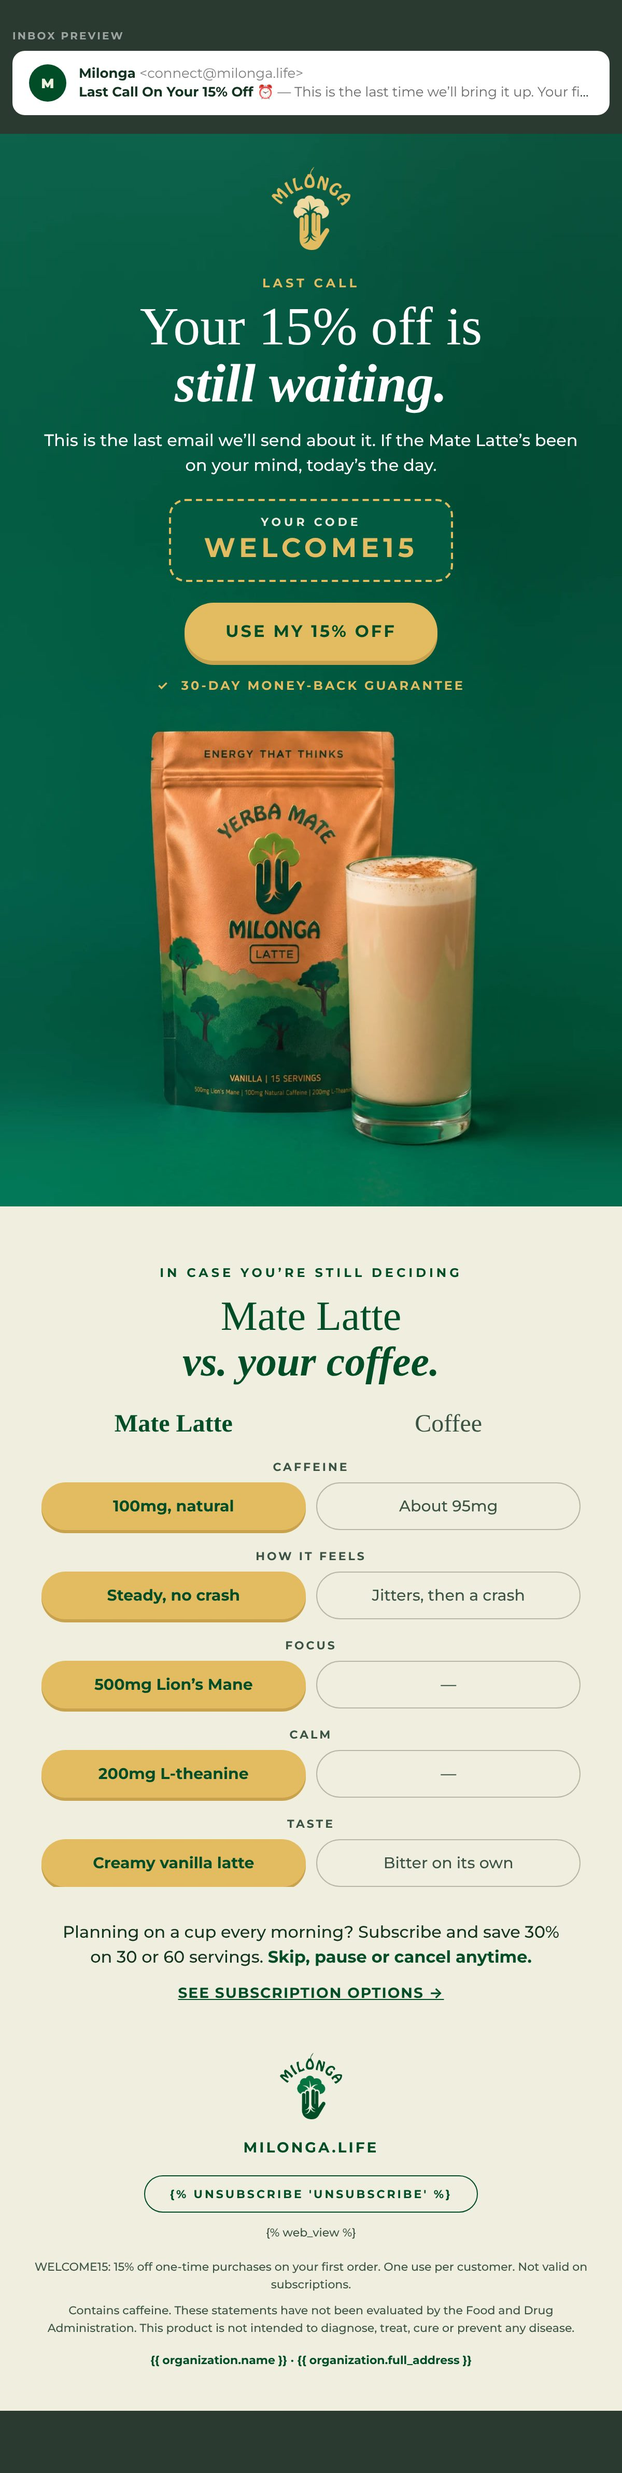
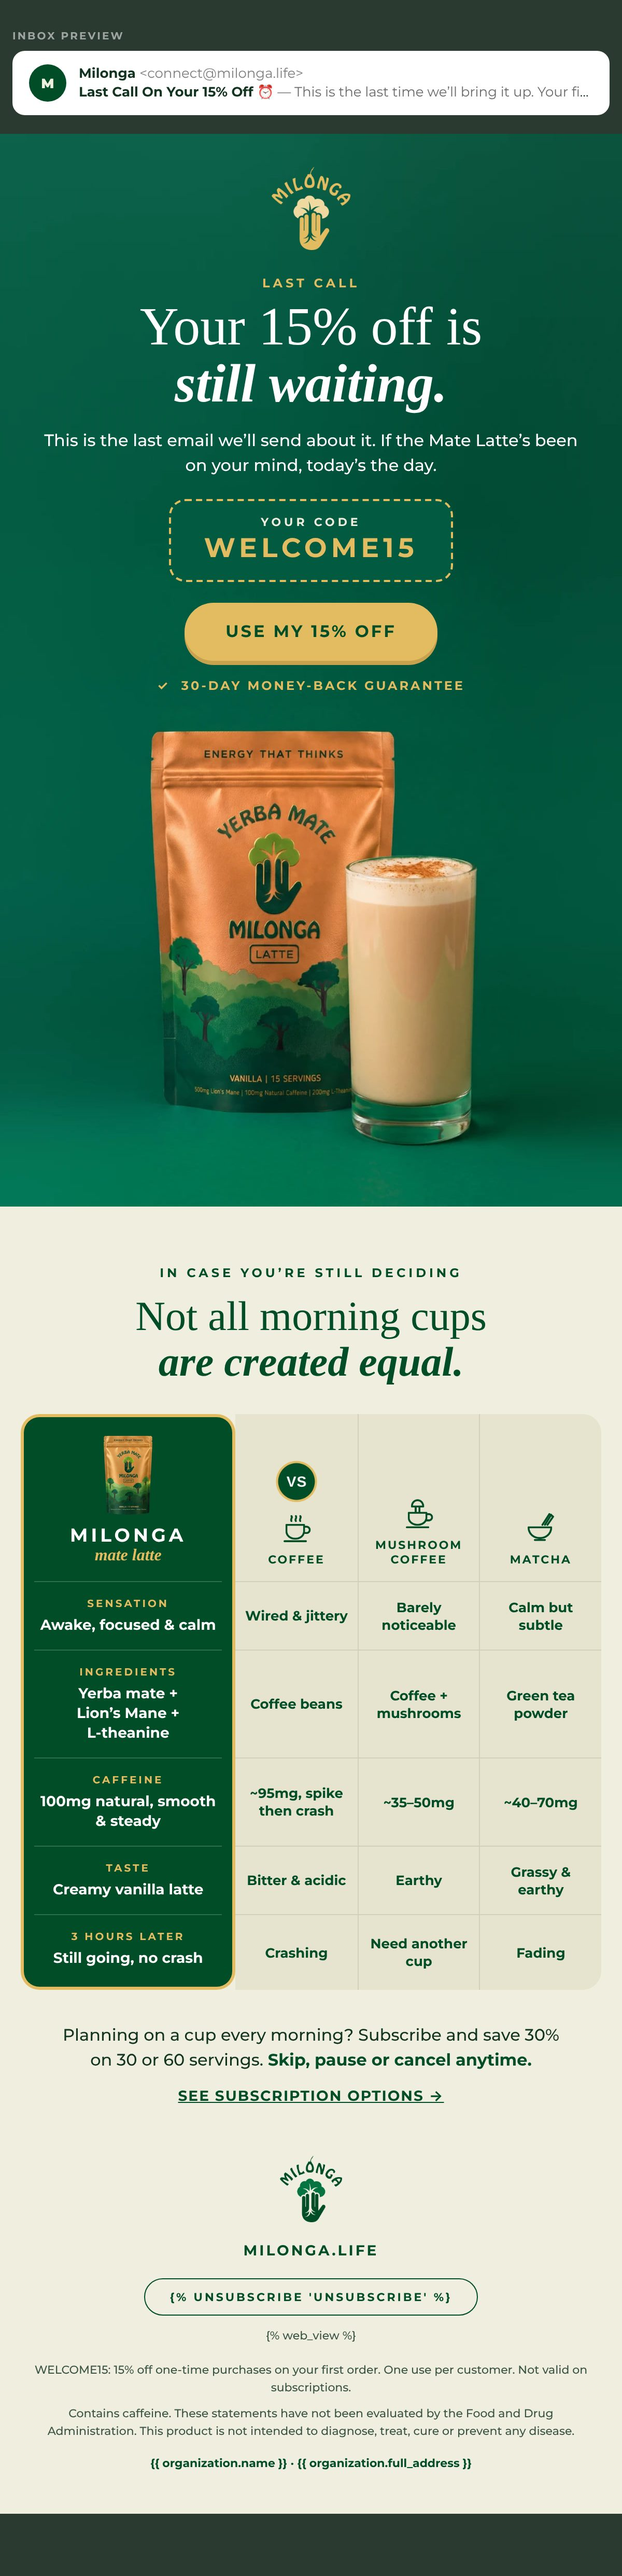
Welcome flow E3: comparison images on Klaviyo's CDN, README, renders
Claude-Session: https://claude.ai/code/session_01NhEtXPnfeCJfN73SqBkUZ5

Changed region(s): [[0.0, 0.0, 1.0, 0.9688], [0.8633, 0.1562, 0.925, 0.1875]]

diff --git a/email-ds/exports/klaviyo/welcome-e3/welcome-e3.html b/email-ds/exports/klaviyo/welcome-e3/welcome-e3.html
@@ -22,8 +22,15 @@
     .code { font-size:20px !important; letter-spacing:2px !important; }
     .code-tag { padding:12px 20px 14px !important; }
     .btn { padding:18px 26px !important; font-size:15px !important; letter-spacing:1.2px !important; }
-    .pad-cmp { padding-left:16px !important; padding-right:16px !important; }
-    .cmp { font-size:14px !important; line-height:18px !important; padding-left:8px !important; padding-right:8px !important; }
+    .pad-cmp { padding-left:10px !important; padding-right:10px !important; }
+    .cmp-mil { padding-left:6px !important; padding-right:6px !important; }
+    .cmp-ours { font-size:12px !important; line-height:16px !important; }
+    .cmp-label { font-size:9px !important; letter-spacing:1.4px !important; }
+    .cmp-cell { font-size:11px !important; line-height:14px !important; padding:10px 3px !important; }
+    .cmp-name { font-size:9px !important; letter-spacing:.8px !important; line-height:12px !important; }
+    .cmp-brand { font-size:15px !important; letter-spacing:2px !important; }
+    .cmp-vs { width:32px !important; height:32px !important; }
+    .cmp-vs-gap { height:38px !important; line-height:38px !important; }
   }
   @media (prefers-color-scheme: dark) {
     .bg-hero { background-color:#025A41 !important; }
@@ -56,48 +63,90 @@
 <!--[if gte mso 9]></v:textbox></v:rect><![endif]-->
 </td></tr>
 
-<!-- ── 2 · MATE LATTE VS. COFFEE (beige) ─────────────────────────── -->
+<!-- ── 2 · MATE LATTE VS. THE ALTERNATIVES (beige) ─────────────────── -->
 <tr><td class="pad bg-page" align="center" bgcolor="#F0EFDF" style="background-color:#F0EFDF;padding:56px 40px 0;font-family:'Montserrat','Helvetica Neue',Helvetica,Arial,sans-serif;">
 <div style="font-size:12px;line-height:16px;font-weight:700;letter-spacing:3px;text-transform:uppercase;color:#004D27;">In case you&rsquo;re still deciding</div>
-<div class="h-sec" style="padding-top:12px;font-family:'Times New Roman',Times,Georgia,serif;font-size:40px;line-height:44px;font-weight:400;color:#004D27;">Mate Latte</div>
-<div class="h-sec" style="font-family:'Times New Roman',Times,Georgia,serif;font-size:40px;line-height:44px;font-weight:700;font-style:italic;color:#004D27;">vs. your coffee.</div>
+<div class="h-sec" style="padding-top:12px;font-family:'Times New Roman',Times,Georgia,serif;font-size:40px;line-height:44px;font-weight:400;color:#004D27;">Not all morning cups</div>
+<div class="h-sec" style="font-family:'Times New Roman',Times,Georgia,serif;font-size:40px;line-height:44px;font-weight:700;font-style:italic;color:#004D27;">are created equal.</div>
 </td></tr>
-<tr><td class="pad-cmp bg-page" bgcolor="#F0EFDF" style="background-color:#F0EFDF;padding:24px 40px 0;">
-<table role="presentation" width="100%" cellpadding="0" cellspacing="0" border="0" style="border-collapse:separate;">
+<tr><td class="pad-cmp bg-page" bgcolor="#F0EFDF" style="background-color:#F0EFDF;padding:28px 20px 0;">
+<table role="presentation" width="100%" cellpadding="0" cellspacing="0" border="0" style="border-collapse:separate;border-spacing:0;">
 <tr>
-<td width="49%" align="center" style="width:49%;padding-bottom:2px;font-family:'Times New Roman',Times,Georgia,serif;font-size:24px;line-height:28px;font-weight:700;color:#004D27;">Mate Latte</td>
-<td width="2%" style="width:2%;font-size:0;">&nbsp;</td>
-<td width="49%" align="center" style="width:49%;padding-bottom:2px;font-family:'Times New Roman',Times,Georgia,serif;font-size:24px;line-height:28px;font-weight:400;color:#3B5344;">Coffee</td>
+<td class="cmp-mil" width="37%" align="center" valign="bottom" bgcolor="#004D27" style="width:37%;background-color:#004D27;border:3px solid #E3BC62;border-bottom:0;border-radius:18px 18px 0 0;padding:18px 8px 14px;font-family:'Montserrat','Helvetica Neue',Helvetica,Arial,sans-serif;">
+<img class="cmp-pouch" src="https://cdn.klaviyomail.com/company/TwvSnK/images/42ccdf16-bbbc-4246-ab82-8d5573d6f6f5.png" width="47" height="76" alt="Milonga Mate Latte pouch" style="display:block;margin:0 auto;width:47px;height:76px;border:0;">
+<div class="cmp-brand" style="padding-top:10px;font-size:18px;line-height:20px;font-weight:700;letter-spacing:3px;color:#FFFFFF;">MILONGA</div>
+<div style="font-family:'Times New Roman',Times,Georgia,serif;font-size:16px;line-height:20px;font-weight:700;font-style:italic;color:#E3BC62;">mate latte</div>
+</td>
+<td class="cmp-r" width="21%" align="center" valign="bottom" bgcolor="#E6E4CF" style="width:21%;background-color:#E6E4CF;padding:18px 4px 14px;font-family:'Montserrat','Helvetica Neue',Helvetica,Arial,sans-serif;">
+<img class="cmp-vs" src="https://cdn.klaviyomail.com/company/TwvSnK/images/f6eca6ee-af15-4ad7-9f8d-ceb0d4be7327.png" width="40" height="40" alt="versus" style="display:block;margin:0 auto 6px;width:40px;height:40px;border:0;">
+<img src="https://cdn.klaviyomail.com/company/TwvSnK/images/31afe900-12dd-4189-9834-e73964cb59d7.png" width="34" height="34" alt="" role="presentation" style="display:block;margin:0 auto;width:34px;height:34px;border:0;">
+<div class="cmp-name" style="padding-top:8px;font-size:11px;line-height:14px;font-weight:700;letter-spacing:1.5px;text-transform:uppercase;color:#004D27;">Coffee</div>
+</td>
+<td class="cmp-r" width="21%" align="center" valign="bottom" bgcolor="#E6E4CF" style="width:21%;background-color:#E6E4CF;border-left:1px solid #D2D0B8;padding:18px 4px 14px;font-family:'Montserrat','Helvetica Neue',Helvetica,Arial,sans-serif;">
+<div class="cmp-vs-gap" style="height:46px;line-height:46px;font-size:0;">&nbsp;</div>
+<img src="https://cdn.klaviyomail.com/company/TwvSnK/images/360d5802-9142-4375-a4b2-452fba70c028.png" width="34" height="34" alt="" role="presentation" style="display:block;margin:0 auto;width:34px;height:34px;border:0;">
+<div class="cmp-name" style="padding-top:8px;font-size:11px;line-height:14px;font-weight:700;letter-spacing:1.5px;text-transform:uppercase;color:#004D27;">Mushroom coffee</div>
+</td>
+<td class="cmp-r" width="21%" align="center" valign="bottom" bgcolor="#E6E4CF" style="width:21%;background-color:#E6E4CF;border-left:1px solid #D2D0B8;border-radius:0 18px 0 0;padding:18px 4px 14px;font-family:'Montserrat','Helvetica Neue',Helvetica,Arial,sans-serif;">
+<div class="cmp-vs-gap" style="height:46px;line-height:46px;font-size:0;">&nbsp;</div>
+<img src="https://cdn.klaviyomail.com/company/TwvSnK/images/e181ee6e-beb9-4f5c-92e1-62128d59581f.png" width="34" height="34" alt="" role="presentation" style="display:block;margin:0 auto;width:34px;height:34px;border:0;">
+<div class="cmp-name" style="padding-top:8px;font-size:11px;line-height:14px;font-weight:700;letter-spacing:1.5px;text-transform:uppercase;color:#004D27;">Matcha</div>
+</td>
 </tr>
-<tr><td colspan="3" align="center" style="padding:18px 0 8px;font-family:'Montserrat','Helvetica Neue',Helvetica,Arial,sans-serif;font-size:11px;line-height:14px;font-weight:700;letter-spacing:2px;text-transform:uppercase;color:#3B5344;">Caffeine</td></tr>
 <tr>
-<td class="cmp" width="49%" align="center" valign="middle" bgcolor="#E3BC62" style="width:49%;background-color:#E3BC62;border-radius:999px;padding:13px 10px;font-family:'Montserrat','Helvetica Neue',Helvetica,Arial,sans-serif;font-size:15px;line-height:20px;font-weight:700;color:#004D27;box-shadow:0 3px 0 #C9A24E;">100mg, natural</td>
-<td width="2%" style="width:2%;font-size:0;line-height:0;">&nbsp;</td>
-<td class="cmp" width="49%" align="center" valign="middle" style="width:49%;border:1.5px solid #B9B7A3;border-radius:999px;padding:12px 10px;font-family:'Montserrat','Helvetica Neue',Helvetica,Arial,sans-serif;font-size:15px;line-height:20px;font-weight:500;color:#3B5344;">About 95mg</td>
+<td class="cmp-mil" align="center" valign="middle" bgcolor="#004D27" style="background-color:#004D27;border-left:3px solid #E3BC62;border-right:3px solid #E3BC62;padding:0 10px;font-family:'Montserrat','Helvetica Neue',Helvetica,Arial,sans-serif;">
+<div style="border-top:1px solid rgba(255,255,255,.18);padding:14px 2px 14px;">
+<div class="cmp-label" style="font-size:10px;line-height:14px;font-weight:700;letter-spacing:2px;text-transform:uppercase;color:#E3BC62;">Sensation</div>
+<div class="cmp-ours" style="padding-top:4px;font-size:14px;line-height:19px;font-weight:700;color:#FFFFFF;">Awake, focused & calm</div>
+</div>
+</td>
+<td class="cmp-r cmp-cell" align="center" valign="middle" bgcolor="#E6E4CF" style="background-color:#E6E4CF;border-top:1px solid #D2D0B8;padding:12px 6px;font-family:'Montserrat','Helvetica Neue',Helvetica,Arial,sans-serif;font-size:13px;line-height:17px;font-weight:700;color:#004D27;">Wired & jittery</td>
+<td class="cmp-r cmp-cell" align="center" valign="middle" bgcolor="#E6E4CF" style="background-color:#E6E4CF;border-top:1px solid #D2D0B8;border-left:1px solid #D2D0B8;padding:12px 6px;font-family:'Montserrat','Helvetica Neue',Helvetica,Arial,sans-serif;font-size:13px;line-height:17px;font-weight:700;color:#004D27;">Barely noticeable</td>
+<td class="cmp-r cmp-cell" align="center" valign="middle" bgcolor="#E6E4CF" style="background-color:#E6E4CF;border-top:1px solid #D2D0B8;border-left:1px solid #D2D0B8;padding:12px 6px;font-family:'Montserrat','Helvetica Neue',Helvetica,Arial,sans-serif;font-size:13px;line-height:17px;font-weight:700;color:#004D27;">Calm but subtle</td>
 </tr>
-<tr><td colspan="3" align="center" style="padding:18px 0 8px;font-family:'Montserrat','Helvetica Neue',Helvetica,Arial,sans-serif;font-size:11px;line-height:14px;font-weight:700;letter-spacing:2px;text-transform:uppercase;color:#3B5344;">How it feels</td></tr>
 <tr>
-<td class="cmp" width="49%" align="center" valign="middle" bgcolor="#E3BC62" style="width:49%;background-color:#E3BC62;border-radius:999px;padding:13px 10px;font-family:'Montserrat','Helvetica Neue',Helvetica,Arial,sans-serif;font-size:15px;line-height:20px;font-weight:700;color:#004D27;box-shadow:0 3px 0 #C9A24E;">Steady, no crash</td>
-<td width="2%" style="width:2%;font-size:0;line-height:0;">&nbsp;</td>
-<td class="cmp" width="49%" align="center" valign="middle" style="width:49%;border:1.5px solid #B9B7A3;border-radius:999px;padding:12px 10px;font-family:'Montserrat','Helvetica Neue',Helvetica,Arial,sans-serif;font-size:15px;line-height:20px;font-weight:500;color:#3B5344;">Jitters, then a crash</td>
+<td class="cmp-mil" align="center" valign="middle" bgcolor="#004D27" style="background-color:#004D27;border-left:3px solid #E3BC62;border-right:3px solid #E3BC62;padding:0 10px;font-family:'Montserrat','Helvetica Neue',Helvetica,Arial,sans-serif;">
+<div style="border-top:1px solid rgba(255,255,255,.18);padding:14px 2px 14px;">
+<div class="cmp-label" style="font-size:10px;line-height:14px;font-weight:700;letter-spacing:2px;text-transform:uppercase;color:#E3BC62;">Ingredients</div>
+<div class="cmp-ours" style="padding-top:4px;font-size:14px;line-height:19px;font-weight:700;color:#FFFFFF;"><span style="white-space:nowrap;">Yerba mate</span> + <span style="white-space:nowrap;">Lion&rsquo;s Mane</span> + <span style="white-space:nowrap;">L-theanine</span></div>
+</div>
+</td>
+<td class="cmp-r cmp-cell" align="center" valign="middle" bgcolor="#E6E4CF" style="background-color:#E6E4CF;border-top:1px solid #D2D0B8;padding:12px 6px;font-family:'Montserrat','Helvetica Neue',Helvetica,Arial,sans-serif;font-size:13px;line-height:17px;font-weight:700;color:#004D27;">Coffee beans</td>
+<td class="cmp-r cmp-cell" align="center" valign="middle" bgcolor="#E6E4CF" style="background-color:#E6E4CF;border-top:1px solid #D2D0B8;border-left:1px solid #D2D0B8;padding:12px 6px;font-family:'Montserrat','Helvetica Neue',Helvetica,Arial,sans-serif;font-size:13px;line-height:17px;font-weight:700;color:#004D27;">Coffee + mushrooms</td>
+<td class="cmp-r cmp-cell" align="center" valign="middle" bgcolor="#E6E4CF" style="background-color:#E6E4CF;border-top:1px solid #D2D0B8;border-left:1px solid #D2D0B8;padding:12px 6px;font-family:'Montserrat','Helvetica Neue',Helvetica,Arial,sans-serif;font-size:13px;line-height:17px;font-weight:700;color:#004D27;">Green tea powder</td>
 </tr>
-<tr><td colspan="3" align="center" style="padding:18px 0 8px;font-family:'Montserrat','Helvetica Neue',Helvetica,Arial,sans-serif;font-size:11px;line-height:14px;font-weight:700;letter-spacing:2px;text-transform:uppercase;color:#3B5344;">Focus</td></tr>
 <tr>
-<td class="cmp" width="49%" align="center" valign="middle" bgcolor="#E3BC62" style="width:49%;background-color:#E3BC62;border-radius:999px;padding:13px 10px;font-family:'Montserrat','Helvetica Neue',Helvetica,Arial,sans-serif;font-size:15px;line-height:20px;font-weight:700;color:#004D27;box-shadow:0 3px 0 #C9A24E;">500mg Lion&rsquo;s Mane</td>
-<td width="2%" style="width:2%;font-size:0;line-height:0;">&nbsp;</td>
-<td class="cmp" width="49%" align="center" valign="middle" style="width:49%;border:1.5px solid #B9B7A3;border-radius:999px;padding:12px 10px;font-family:'Montserrat','Helvetica Neue',Helvetica,Arial,sans-serif;font-size:15px;line-height:20px;font-weight:500;color:#3B5344;">&mdash;</td>
+<td class="cmp-mil" align="center" valign="middle" bgcolor="#004D27" style="background-color:#004D27;border-left:3px solid #E3BC62;border-right:3px solid #E3BC62;padding:0 10px;font-family:'Montserrat','Helvetica Neue',Helvetica,Arial,sans-serif;">
+<div style="border-top:1px solid rgba(255,255,255,.18);padding:14px 2px 14px;">
+<div class="cmp-label" style="font-size:10px;line-height:14px;font-weight:700;letter-spacing:2px;text-transform:uppercase;color:#E3BC62;">Caffeine</div>
+<div class="cmp-ours" style="padding-top:4px;font-size:14px;line-height:19px;font-weight:700;color:#FFFFFF;">100mg natural, smooth & steady</div>
+</div>
+</td>
+<td class="cmp-r cmp-cell" align="center" valign="middle" bgcolor="#E6E4CF" style="background-color:#E6E4CF;border-top:1px solid #D2D0B8;padding:12px 6px;font-family:'Montserrat','Helvetica Neue',Helvetica,Arial,sans-serif;font-size:13px;line-height:17px;font-weight:700;color:#004D27;">~95mg, spike then crash</td>
+<td class="cmp-r cmp-cell" align="center" valign="middle" bgcolor="#E6E4CF" style="background-color:#E6E4CF;border-top:1px solid #D2D0B8;border-left:1px solid #D2D0B8;padding:12px 6px;font-family:'Montserrat','Helvetica Neue',Helvetica,Arial,sans-serif;font-size:13px;line-height:17px;font-weight:700;color:#004D27;">~35&ndash;50mg</td>
+<td class="cmp-r cmp-cell" align="center" valign="middle" bgcolor="#E6E4CF" style="background-color:#E6E4CF;border-top:1px solid #D2D0B8;border-left:1px solid #D2D0B8;padding:12px 6px;font-family:'Montserrat','Helvetica Neue',Helvetica,Arial,sans-serif;font-size:13px;line-height:17px;font-weight:700;color:#004D27;">~40&ndash;70mg</td>
 </tr>
-<tr><td colspan="3" align="center" style="padding:18px 0 8px;font-family:'Montserrat','Helvetica Neue',Helvetica,Arial,sans-serif;font-size:11px;line-height:14px;font-weight:700;letter-spacing:2px;text-transform:uppercase;color:#3B5344;">Calm</td></tr>
 <tr>
-<td class="cmp" width="49%" align="center" valign="middle" bgcolor="#E3BC62" style="width:49%;background-color:#E3BC62;border-radius:999px;padding:13px 10px;font-family:'Montserrat','Helvetica Neue',Helvetica,Arial,sans-serif;font-size:15px;line-height:20px;font-weight:700;color:#004D27;box-shadow:0 3px 0 #C9A24E;">200mg L-theanine</td>
-<td width="2%" style="width:2%;font-size:0;line-height:0;">&nbsp;</td>
-<td class="cmp" width="49%" align="center" valign="middle" style="width:49%;border:1.5px solid #B9B7A3;border-radius:999px;padding:12px 10px;font-family:'Montserrat','Helvetica Neue',Helvetica,Arial,sans-serif;font-size:15px;line-height:20px;font-weight:500;color:#3B5344;">&mdash;</td>
+<td class="cmp-mil" align="center" valign="middle" bgcolor="#004D27" style="background-color:#004D27;border-left:3px solid #E3BC62;border-right:3px solid #E3BC62;padding:0 10px;font-family:'Montserrat','Helvetica Neue',Helvetica,Arial,sans-serif;">
+<div style="border-top:1px solid rgba(255,255,255,.18);padding:14px 2px 14px;">
+<div class="cmp-label" style="font-size:10px;line-height:14px;font-weight:700;letter-spacing:2px;text-transform:uppercase;color:#E3BC62;">Taste</div>
+<div class="cmp-ours" style="padding-top:4px;font-size:14px;line-height:19px;font-weight:700;color:#FFFFFF;">Creamy vanilla latte</div>
+</div>
+</td>
+<td class="cmp-r cmp-cell" align="center" valign="middle" bgcolor="#E6E4CF" style="background-color:#E6E4CF;border-top:1px solid #D2D0B8;padding:12px 6px;font-family:'Montserrat','Helvetica Neue',Helvetica,Arial,sans-serif;font-size:13px;line-height:17px;font-weight:700;color:#004D27;">Bitter & acidic</td>
+<td class="cmp-r cmp-cell" align="center" valign="middle" bgcolor="#E6E4CF" style="background-color:#E6E4CF;border-top:1px solid #D2D0B8;border-left:1px solid #D2D0B8;padding:12px 6px;font-family:'Montserrat','Helvetica Neue',Helvetica,Arial,sans-serif;font-size:13px;line-height:17px;font-weight:700;color:#004D27;">Earthy</td>
+<td class="cmp-r cmp-cell" align="center" valign="middle" bgcolor="#E6E4CF" style="background-color:#E6E4CF;border-top:1px solid #D2D0B8;border-left:1px solid #D2D0B8;padding:12px 6px;font-family:'Montserrat','Helvetica Neue',Helvetica,Arial,sans-serif;font-size:13px;line-height:17px;font-weight:700;color:#004D27;">Grassy & earthy</td>
 </tr>
-<tr><td colspan="3" align="center" style="padding:18px 0 8px;font-family:'Montserrat','Helvetica Neue',Helvetica,Arial,sans-serif;font-size:11px;line-height:14px;font-weight:700;letter-spacing:2px;text-transform:uppercase;color:#3B5344;">Taste</td></tr>
 <tr>
-<td class="cmp" width="49%" align="center" valign="middle" bgcolor="#E3BC62" style="width:49%;background-color:#E3BC62;border-radius:999px;padding:13px 10px;font-family:'Montserrat','Helvetica Neue',Helvetica,Arial,sans-serif;font-size:15px;line-height:20px;font-weight:700;color:#004D27;box-shadow:0 3px 0 #C9A24E;">Creamy vanilla latte</td>
-<td width="2%" style="width:2%;font-size:0;line-height:0;">&nbsp;</td>
-<td class="cmp" width="49%" align="center" valign="middle" style="width:49%;border:1.5px solid #B9B7A3;border-radius:999px;padding:12px 10px;font-family:'Montserrat','Helvetica Neue',Helvetica,Arial,sans-serif;font-size:15px;line-height:20px;font-weight:500;color:#3B5344;">Bitter on its own</td>
+<td class="cmp-mil" align="center" valign="middle" bgcolor="#004D27" style="background-color:#004D27;border-left:3px solid #E3BC62;border-right:3px solid #E3BC62;border-bottom:3px solid #E3BC62;border-radius:0 0 18px 18px;padding:0 10px;font-family:'Montserrat','Helvetica Neue',Helvetica,Arial,sans-serif;">
+<div style="border-top:1px solid rgba(255,255,255,.18);padding:14px 2px 18px;">
+<div class="cmp-label" style="font-size:10px;line-height:14px;font-weight:700;letter-spacing:2px;text-transform:uppercase;color:#E3BC62;">3 hours later</div>
+<div class="cmp-ours" style="padding-top:4px;font-size:14px;line-height:19px;font-weight:700;color:#FFFFFF;">Still going, no crash</div>
+</div>
+</td>
+<td class="cmp-r cmp-cell" align="center" valign="middle" bgcolor="#E6E4CF" style="background-color:#E6E4CF;border-top:1px solid #D2D0B8;padding:12px 6px;font-family:'Montserrat','Helvetica Neue',Helvetica,Arial,sans-serif;font-size:13px;line-height:17px;font-weight:700;color:#004D27;">Crashing</td>
+<td class="cmp-r cmp-cell" align="center" valign="middle" bgcolor="#E6E4CF" style="background-color:#E6E4CF;border-top:1px solid #D2D0B8;border-left:1px solid #D2D0B8;padding:12px 6px;font-family:'Montserrat','Helvetica Neue',Helvetica,Arial,sans-serif;font-size:13px;line-height:17px;font-weight:700;color:#004D27;">Need another cup</td>
+<td class="cmp-r cmp-cell" align="center" valign="middle" bgcolor="#E6E4CF" style="background-color:#E6E4CF;border-top:1px solid #D2D0B8;border-left:1px solid #D2D0B8;border-radius:0 0 18px 0;padding:12px 6px;font-family:'Montserrat','Helvetica Neue',Helvetica,Arial,sans-serif;font-size:13px;line-height:17px;font-weight:700;color:#004D27;">Fading</td>
 </tr>
 </table>
 </td></tr>
